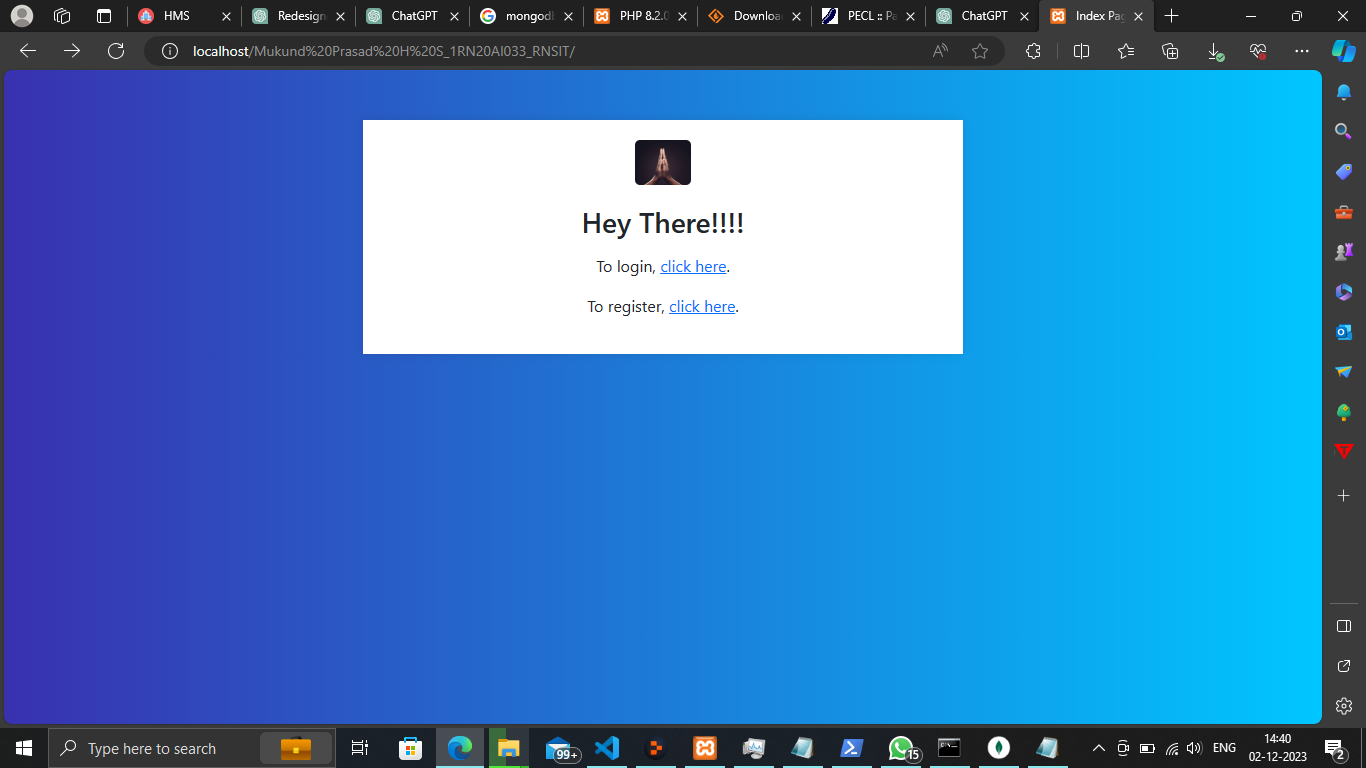
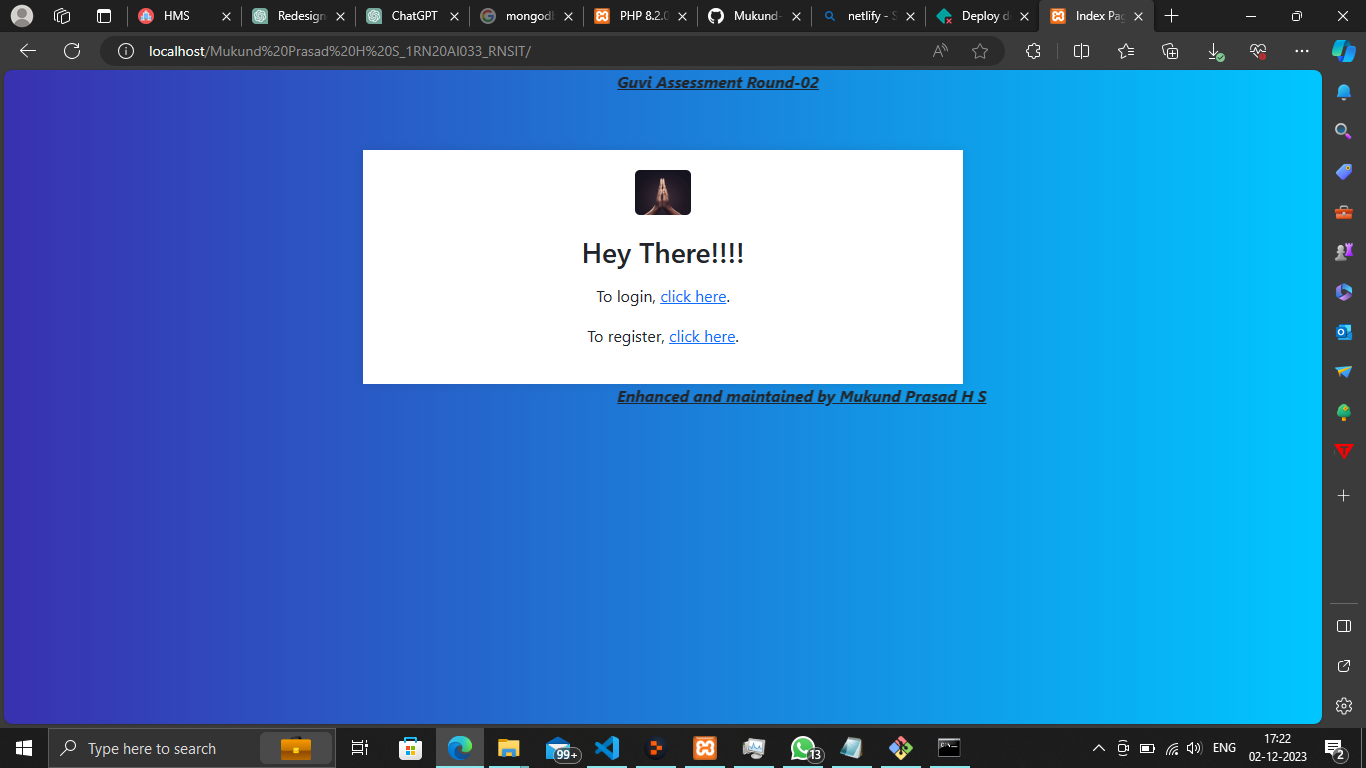
5:39 PM Update

diff --git a/profile.html b/profile.html
@@ -5,11 +5,13 @@
     <meta http-equiv="X-UA-Compatible" content="IE=edge" />
     <meta name="viewport" content="width=device-width, initial-scale=1.0" />
     <title>User Profile</title>
+    <link rel="stylesheet" href="style1.css" />
     <link rel="stylesheet" href="https://cdn.jsdelivr.net/npm/bootstrap@5.2.2/dist/css/bootstrap.min.css" integrity="sha384-Zenh87qX5JnK2Jl0vWa8Ck2rdkQ2Bzep5IDxbcnCeuOxjzrPF/et3URy9Bv1WTRi" crossorigin="anonymous" />
     <script src="https://code.jquery.com/jquery-3.5.1.min.js"></script>
     <script src="profile.js"></script>
 </head>
 <body>
+    <marquee> <u><i><b>Guvi Assessment Round-02</b></u></i></marquee>
     <div class="container profile">
         <div id="profileInfo">
             <!-- Profile information will be displayed here using AJAX -->
@@ -18,5 +20,6 @@
             <!-- Edit profile form will be displayed here using AJAX -->
         </div>
     </div>
+    <marquee><b><u><i>Enhanced and maintained by Mukund Prasad H S</u></b></i></marquee>
 </body>
 </html>

diff --git a/register.html b/register.html
@@ -60,6 +60,7 @@
 <script src="https://code.jquery.com/jquery-3.5.1.min.js"></script>
 <script src="registration.js"></script>
 <body>
+  <marquee> <u><i><b>Guvi Assessment Round-02</b></u></i></marquee>
   <div class="container register">
     <div class="welcome-image">
       <img src="images/Namaskar.jpg" alt="Welcome Image" />
@@ -140,7 +141,7 @@
     </form>
   </div>
 
-  
+  <marquee><b><u><i>Enhanced and maintained by Mukund Prasad H S</u></b></i></marquee>
 </body>
 
 </html>

diff --git a/index.html b/index.html
@@ -59,6 +59,7 @@
 </head>
 
 <body>
+    <marquee> <u><i><b>Guvi Assessment Round-02</b></u></i></marquee>
   <div class="container">
     <div class="welcome-image">
       <img src="images/Namaskar.jpg" alt="Welcome Image" />
@@ -73,7 +74,7 @@
       To register,  <a href="register.html">click here</a>.
     </p>
   </div>
-
+  <marquee><b><u><i>Enhanced and maintained by Mukund Prasad H S</u></b></i></marquee>
 </body>
 
 </html>

diff --git a/login.html b/login.html
@@ -57,6 +57,7 @@
 </head>
 
 <body>
+    <marquee> <u><i><b>Guvi Assessment Round-02</b></u></i></marquee>
     <div class="container">
         <form id="loginForm">
             <div>
@@ -86,6 +87,7 @@
     </div>
     <script src="https://code.jquery.com/jquery-3.5.1.min.js"></script>
     <script src="login.js"></script>
+    <marquee><b><u><i>Enhanced and maintained by Mukund Prasad H S</u></b></i></marquee>
 </body>
 
 </html>

diff --git a/js/profile.js b/js/profile.js
@@ -100,6 +100,7 @@ $(document).ready(function () {
       },
       error: function (error) {
         console.log("Error submitting edit profile form.");
+        
       },
     });
   });

diff --git a/php/profile.php b/php/profile.php
@@ -9,6 +9,7 @@ $database = $mongoClient->selectDatabase("assessment");
 $collection = $database->selectCollection("users");
 
 
+
 // Function to get the edit profile form
 function getEditForm()
 {
